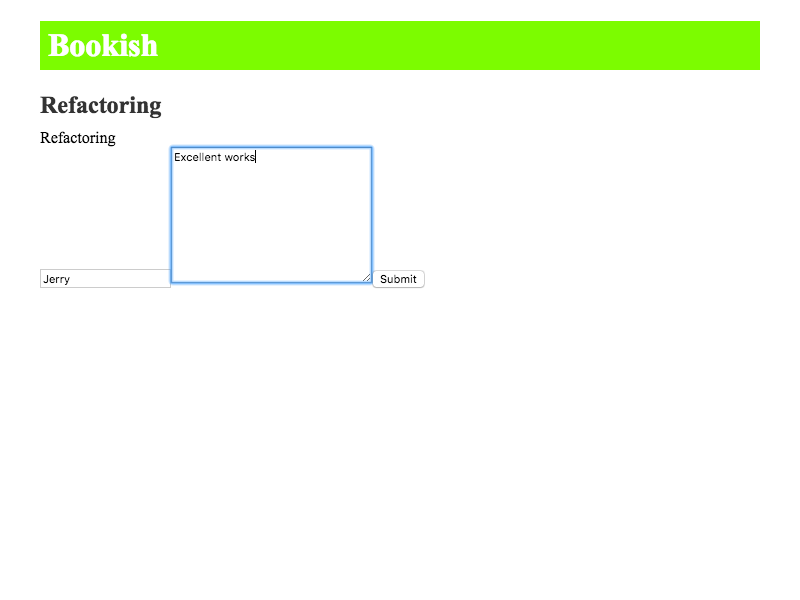
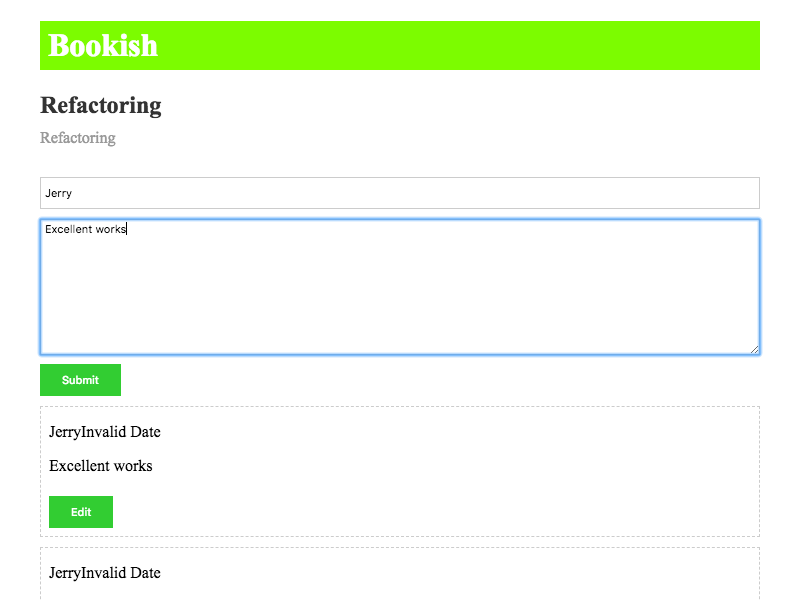
Review 测试

diff --git a/src/comps/Review.js b/src/comps/Review.js
@@ -1,16 +1,58 @@
-import React from 'react';
+import React, {Component} from 'react';
 import format from 'date-fns/format';
+import './Review.css';
+import {updateReview} from '../store/actions';
+import {connect} from 'react-redux';
 
-const Review = ({review}) => {
-  return (
-    <div className="review">
-      <div>
-        <span className="name">{review.name}</span>
-        <span className="date">{format(review.timestamp, 'YYYY-MM-DD')}</span>
+export class Review extends Component {
+
+  state = {
+    editing: false,
+    content: ''
+  };
+
+  edit() {
+    const {content} = this.props.review;
+    this.setState({
+      editing: true,
+      content
+    });
+  }
+
+  submit() {
+    this.setState({
+      editing: false
+    });
+    const {id} = this.props.review;
+    this.props.updateReview(id, {
+      content: ''
+    });
+  }
+
+  updateContent = (e) => {
+    this.setState({
+      content: e.target.value
+    });
+  };
+
+  render() {
+    const {review} = this.props;
+    const {editing} = this.state;
+    return (
+      <div className="review">
+        <div>
+          <span className="name">{review.name}</span>
+          <span className="date">{format(review.timestamp, 'YYYY-MM-DD')}</span>
+        </div>
+        {editing ? <textarea value={this.state.content} cols="30" rows="10" className="review-content"
+                             onChange={(e) => this.updateContent(e)}/> :
+          <p className="content">{review.content}</p>}
+        {this.state.editing ? <button className="submit" onClick={() => this.submit()}>Submit</button> :
+          <button className="edit" onClick={() => this.edit()}>Edit</button>
+        }
       </div>
-      <p className="content">{review.content}</p>
-    </div>
-  );
-};
+    );
+  }
+}
 
-export default Review;
+export default connect(null, {updateReview})(Review);

diff --git a/src/comps/Review.test.js b/src/comps/Review.test.js
@@ -1,6 +1,6 @@
 import React from 'react';
 import {shallow} from 'enzyme';
-import Review from './Review';
+import {Review} from './Review';
 
 describe('Review', () => {
   it('Render', () => {
@@ -20,5 +20,28 @@ describe('Review', () => {
     expect(name.text()).toEqual('JunTao');
     // const date = wrapper.find('.review .date');
     // expect(date.text).toEqual('2018-09-20');
+  });
+
+  it('Editing', () => {
+    const props = {
+      review: {
+        name: 'JunTao',
+        timestamp: 1537435886653,
+        content: 'Content'
+      },
+      updateReview: jest.fn()
+    };
+
+    const wrapper = shallow(<Review {...props}/>);
+
+    expect(wrapper.find('button.submit').length).toEqual(0);
+    expect(wrapper.find('button.edit').length).toEqual(1);
+    expect(wrapper.find('.review .content').text()).toEqual('Content');
+    wrapper.find('button.edit').simulate('click');
+    expect(wrapper.find('button.submit').length).toEqual(1);
+    expect(wrapper.find('button.edit').length).toEqual(0);
+    expect(wrapper.find('.review textarea').props().value).toEqual('Content');
+    wrapper.find('button.submit').simulate('click');
+    expect(props.updateReview).toHaveBeenCalled();
   });
 });

diff --git a/src/store/actions.test.js b/src/store/actions.test.js
@@ -1,7 +1,7 @@
 import axios from 'axios';
 import configureMockStore from 'redux-mock-store';
 import chunk from 'redux-thunk';
-import {setSearchTerm, fetchBooks, fetchABook, saveReview} from './actions';
+import {setSearchTerm, fetchBooks, fetchABook, saveReview, updateReview} from './actions';
 import * as types from './types';
 
 const middlewares = [chunk];
@@ -92,5 +92,18 @@ describe('BookListContainer related actions', () => {
         bookId: 1
       }, {'headers': {'Content-Type': 'application/json'}});
     });
+  });
+
+  it('Update review', () => {
+    const review = {
+      content: '[Updated]'
+    };
+    axios.put = jest.fn().mockImplementation(() => Promise.resolve());
+
+    const store = mockStore({list: {}});
+
+    return store.dispatch(updateReview(1, review)).then(() => {
+      expect(axios.put).toHaveBeenCalledWith('http://localhost:8080/reviews/1', review, {headers: {'Content-Type': 'application/json'}});
+    })
   });
 });

diff --git a/src/store/actions.js b/src/store/actions.js
@@ -50,3 +50,20 @@ export const saveReview = (id, review) => {
       });
   }
 };
+
+
+export const updateReview = (id, review) => {
+  const config = {
+    headers: {'Content-Type': 'application/json'}
+  };
+  return (dispatch) => {
+    dispatch({type: types.SAVE_BOOK_REVIEW_PENDING});
+    return axios.put(`http://localhost:8080/reviews/${id}`, review, config)
+      .then(res => {
+        dispatch({type: types.SAVE_BOOK_REVIEW_SUCCESS, payload: res.data});
+      })
+      .catch(err => {
+        dispatch({type: types.SAVE_BOOK_REVIEW_FAILED, error: err});
+      });
+  }
+};

diff --git a/mock-server/server.js b/mock-server/server.js
@@ -10,7 +10,7 @@ const relations = {
 
 function buildRewrite(relations) {
   return _.reduce(relations, (acc, embed, resources) => {
-    acc[`${resources}/:id`] = `${resources}/:id?_embed=${embed}`;
+    acc[`/${resources}/:id`] = `/${resources}/:id?_embed=${embed}`;
     console.log(acc);
     return acc;
   }, {});
@@ -51,8 +51,8 @@ server.use((req, res, next) => {
 });
 
 server.use(middlewares);
-server.use(router);
 server.use(jsonServer.rewriter(buildRewrite(relations)));
+server.use(router);
 
 server.listen(8080, () => {
   console.log('JSON Server is Running at: 8080');

diff --git a/src/containers/BookDetailContainer.js b/src/containers/BookDetailContainer.js
@@ -1,7 +1,7 @@
 import React, {Component} from 'react';
 import BookDetail from '../comps/BookDetail';
 import {connect} from 'react-redux';
-import {fetchABook, saveReview} from '../store/actions';
+import {fetchABook, saveReview, updateReview} from '../store/actions';
 import {bindActionCreators} from 'redux';
 
 export class BookDetailContainer extends Component {

diff --git a/src/comps/ReviewList.js b/src/comps/ReviewList.js
@@ -5,7 +5,7 @@ export const ReviewList = ({reviews}) => {
   return (
     <div className="review-container">
       {
-        reviews.map(review => <Review review={review} key={`${review.name}-${review.timestamp}`}/>)
+        reviews.map(review => <Review review={review} key={`${review.name}`}/>)
       }
     </div>
   );

diff --git a/src/comps/Review.css b/src/comps/Review.css
@@ -1,0 +1,17 @@
+.review {
+  border: 1px dashed #ccc;
+  margin-top: 10px;
+  padding: 1em .5em .5em;
+}
+
+.review-content {
+  -webkit-box-sizing: border-box;
+  box-sizing: border-box;
+  display: block;
+  margin-top: .5em;
+  padding: 5px;
+  width: 100%;
+  height: 60px;
+  border: 1px solid #ccc;
+  resize: none;
+}

diff --git a/src/comps/BookDetail.css b/src/comps/BookDetail.css
@@ -24,3 +24,8 @@ button {
   background-color: limegreen;
   color: #fff;
 }
+
+.description {
+  color: #999;
+  margin-bottom: 30px;
+}
